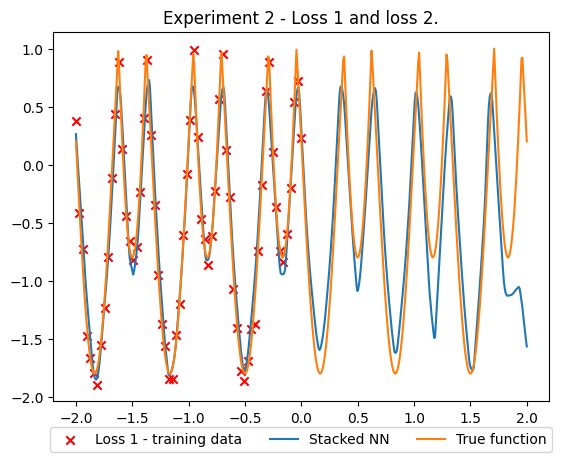
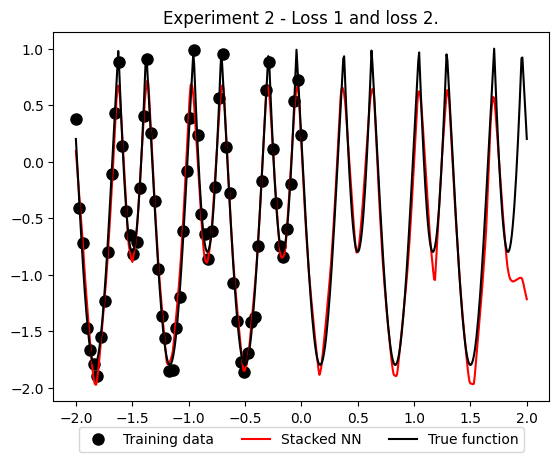
update plots

diff --git a/main.py b/main.py
@@ -186,13 +186,13 @@ nn_model = ExtendedModel(
 device = torch.device('cuda:0' if torch.cuda.is_available() else 'cpu') # send all tensors to device, i.e. data in traininig and model
 
 # create 64 samples for loss 1 and 256 samples for loss 2
-n_samples_1 = 64
+n_samples_1 = 256
 x_max_1 = [0]
 data.config['n_samples'] = n_samples_1
 data.config['x_max'] = x_max_1
 y_train_1, x_train_1 = data.create_training_data() 
 
-n_samples_2 = 256
+n_samples_2 = 0
 x_max_2 = [2]
 data.config['n_samples'] = n_samples_2
 data.config['x_max'] = x_max_2
@@ -240,16 +240,16 @@ nn_model.train(
 # nn_model.load_state_dict(torch.load(path))
 
 import matplotlib.pyplot as plt
-fig_folder = Path().cwd() / 'exp_2'
+fig_folder = Path().cwd() / 'exp_1'
 for i in range(7):
     plt.figure()
     if i == 0:
-        plt.scatter(x_train_1, y_train_1[:,i], marker='x', color='red', label='Loss 1 - training data')
+        plt.plot(x_train_1, y_train_1[:,i], 'ko', markersize=8, label='Training data')
     else:
-        plt.scatter(x_train_2, y_train_2[:,i], marker='x', color='green', label='Loss 2 - training data')
-    plt.plot(x_val.detach(), nn_model(x_val).detach()[:,i], label='Stacked NN')
-    plt.plot(x_val.detach(), y_val.detach()[:,i], label='True function')
-    plt.title('Experiment 2 - Loss 1 and loss 2.')
+        plt.plot(x_train_2, y_train_2[:,i], 'ko', markersize=8, label='Training data')
+    plt.plot(x_val.detach(), nn_model(x_val).detach()[:,i], 'r-', label='Stacked NN')
+    plt.plot(x_val.detach(), y_val.detach()[:,i], 'k-', label='True function')
+    plt.title('Experiment 1 - Loss 1.')
     plt.legend(loc='upper center', bbox_to_anchor=(0.5, -0.05), fancybox=True, ncol=3)
     plt.savefig(fig_folder / 'temp_fig_{}.png'.format(i), bbox_inches="tight")
 # %%
